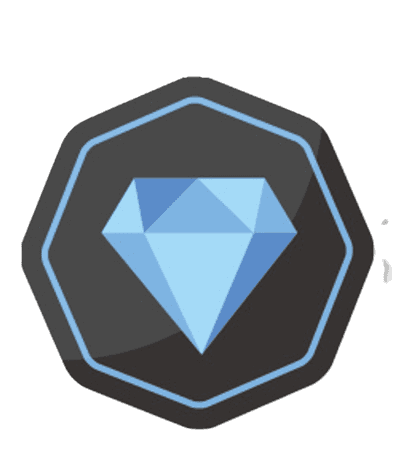
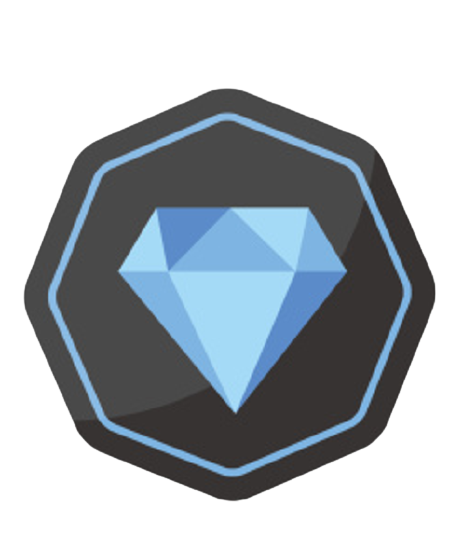
update the membership Seciton

diff --git a/scr/index.html b/scr/index.html
@@ -8,7 +8,7 @@
         </div>
         
         <nav id="nav-bar">
-            <ul>
+            <ul id="headerList">
                 <li>
                     <a class="nav-link" href="shop">shop</a>
                 </li>
@@ -53,28 +53,73 @@
         </div>
     </section>
 
+    
+    
+    <section id="membership">
+        <div id="membershipGrid">
+            <!--- silver  --->
+            <div id="membershipSeciton">
+                <div id="membershipHeader">
+                    <img id="membershipImage" src="/image/silver.png" alt="selver image"> 
+                    <h1 id="silver">Basic</h1>
+                </div>
+            
+            <div>
+                <ul id="membershipList">
+                    <li>Delivery in 2 days</li>
+                    <li>Random box worth 20$</li>
+                </ul>
+            </div>
+            <div id="SilverPriece"> 
+                <h1 id="priece">40$</h1>
+                <button id="buttonMembership">SELECT</button>
+            </div>
+            </div>
+            <!--- gold --->
+            <div id="membershipSeciton">
+                <div id="membershipHeader">
+                    <img id="membershipImage" src="/image/gold.png" alt="Gold image">
+                    <h1 id="gold">Gold</h1>
+                </div>
+             
+                <div >
+                    <ul id="membershipList">
+                        <li>Delivery in one day</li>
+                        <li>Random box worth 50$</li>
+                        <li>Discont 20%</li>
+                    </ul>
+                </div>
+                <div id="GoldPriece"> 
+                    <h1 id="priece">70$</h1>
+                    <button id="buttonMembership">SELECT</button>
+                </div>
+            </div>
+            <!--- dauimon --->
+            <div id="membershipSeciton">
+                <div id="membershipHeader">  
+                    <img id="membershipImage" src="/image/diamond.png" alt="dimaond image">
+                    <h1>Diamond</h1>
+                </div>
+                <ul id="membershipList">
+                    <li>Delivery in same day</li>
+                    <li>Random box worth 80$</li>
+                    <li>Discont 30%</li>
+                    <li>Every week one free manga </li>
+                    <li>ask for manga</li>
+                </ul>
+                <div id="diamondPriece"> 
+                    <h1 id="priece">100$</h1>
+                    <button id="buttonMembership">SELECT</button>
+                </div>
+            </div>
+        </div>
+    </section>
+
     <section id="who we are?">
         <div id="Who"><h1>Anime Store (animestore.com)</h1>is a leading international book retailer with a unique offer -- over <span style="color: red;">20 million</span> books and free delivery worldwide (with no minimum spend).<br>
          We ship thousands of books every day from our fulfillment centres in Gloucester, United Kingdom, and Melbourne,<br> Australia, to more than <span style="color: red;">130 countries</span> across the world -- displaying prices in 37 different local currencies.<br>
         Our vision is to provide “All Books Available to All” by improving selection, access and affordability of books.</div>
     </section>
-
-    
-    <section id="membership">
-        <div id="membershipGrid">
-            <!--- silver  --->
-            <div> 
-            <h1 id="silver">Basic</h1>
-            <div></div>
-            <h1 id="silverPriece">30$</h1>
-            </div>
-            <!--- gold --->
-            <div><h1 id="gold">Gold</h1></div>
-            <!--- dauimon --->
-            <div><h1></h1></div>
-        </div>
-    </section>
-
 
 
 </div>

diff --git a/scr/global.css b/scr/global.css
@@ -14,7 +14,7 @@
 #nav-bar {
   display: inline-block;
 }
-ul {
+#headerList {
   padding-top: 20px;
   display: grid;
   grid-template-columns: 0.5fr 0.5fr 0.5fr 0.5fr 0.5fr;
@@ -68,4 +68,26 @@ ul {
   opacity: 0.5;
 }
 
-/*shop*/
+/*membership*/
+
+#membershipGrid {
+  padding-top: 200px;
+  display: grid;
+  grid-template-columns: 1fr 1fr 1fr;
+  justify-items: center;
+}
+#membershipImage {
+  width: 100px;
+  height: 100px;
+}
+#membershipList {
+  font-size: 25px;
+}
+#GoldPriece {
+}
+
+#SilverPriece {
+}
+
+#membershipSeciton {
+}
